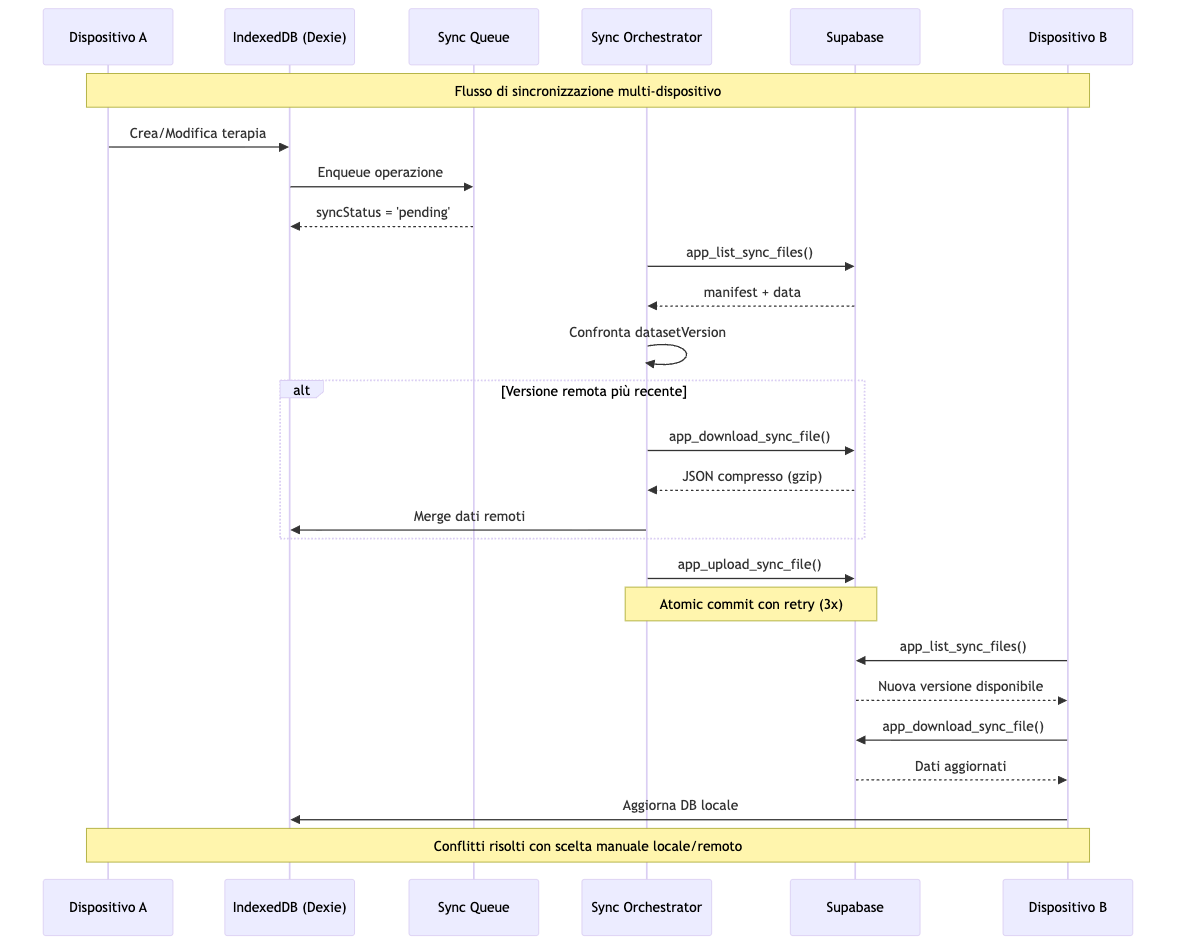
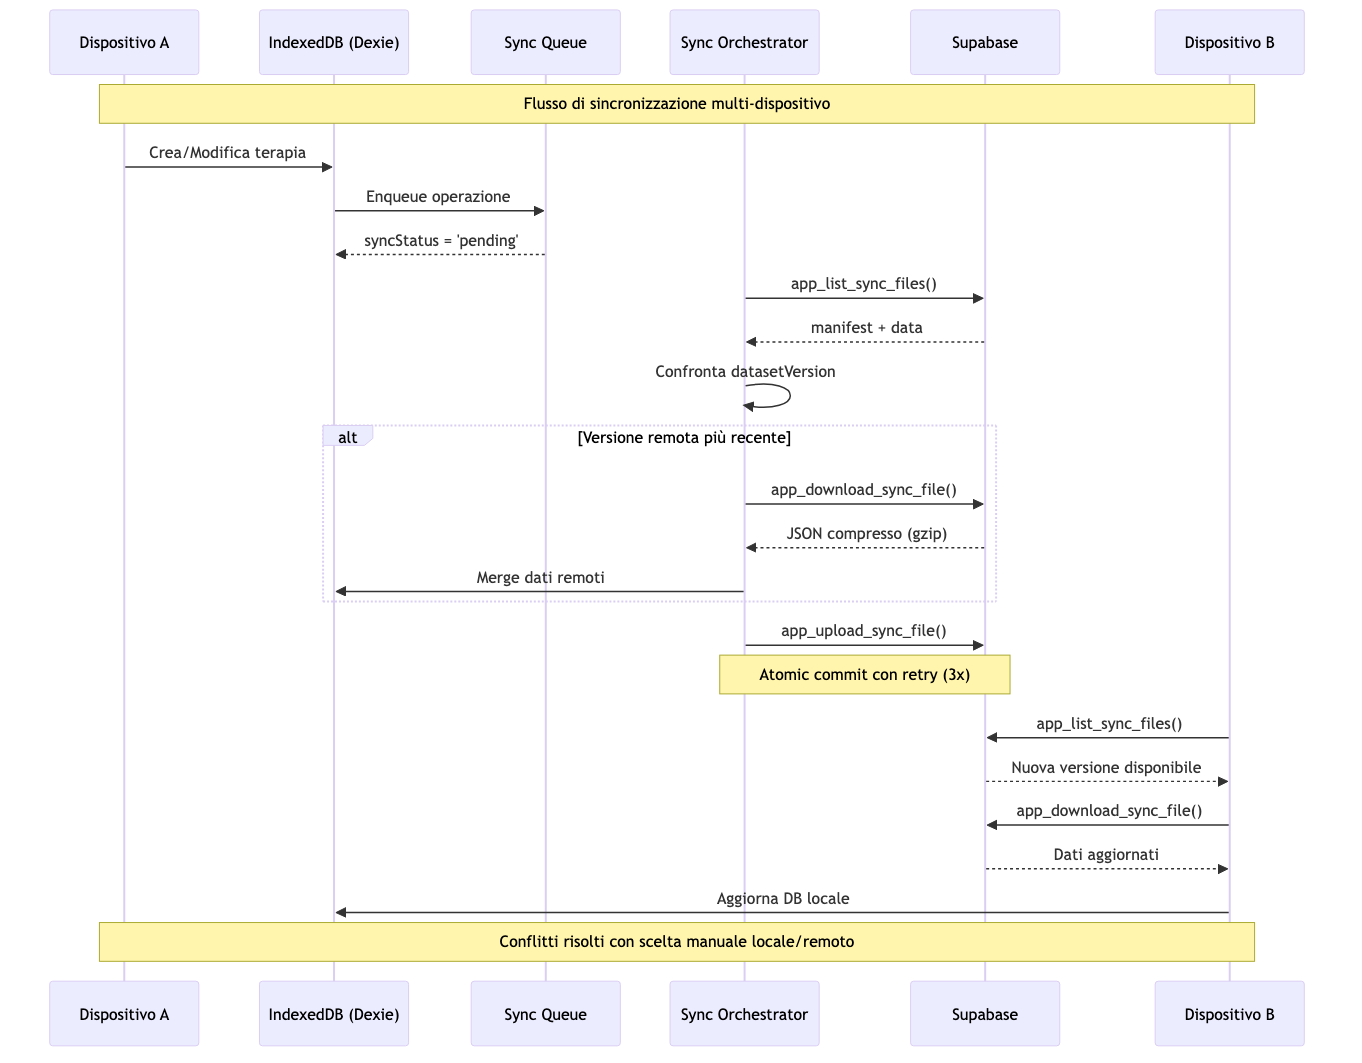
fix: load demo data on app init + regenerate Mermaid diagrams

diff --git a/pwa/src/App.vue b/pwa/src/App.vue
@@ -5,7 +5,7 @@ import AppNav from './components/AppNav.vue'
 import HelpDrawer from './components/HelpDrawer.vue'
 import ConfirmDialog from './components/ConfirmDialog.vue'
 import { initAuth, sanitizeEmailInput, sanitizeUsernameInput, useAuth } from './services/auth'
-import { repairUnsyncedSeedData } from './services/seedData'
+import { loadDemoData, repairUnsyncedSeedData } from './services/seedData'
 import { ensureDefaultResidenze } from './services/residenze'
 import { retryQueue, isDataServiceAvailable } from './services/dataService'
 import { db, getSetting, setSetting } from './db'
@@ -61,6 +61,7 @@ onMounted(async () => {
   await initAuth()
   checkCdnStatus()
   await ensureDefaultResidenze().catch(() => {})
+  await loadDemoData().catch(() => {})
   await ensureDefaultFasceOrarie()
   // Flush any pending items from init (e.g., default residences created offline)
   if (isDataServiceAvailable() && navigator.onLine) {